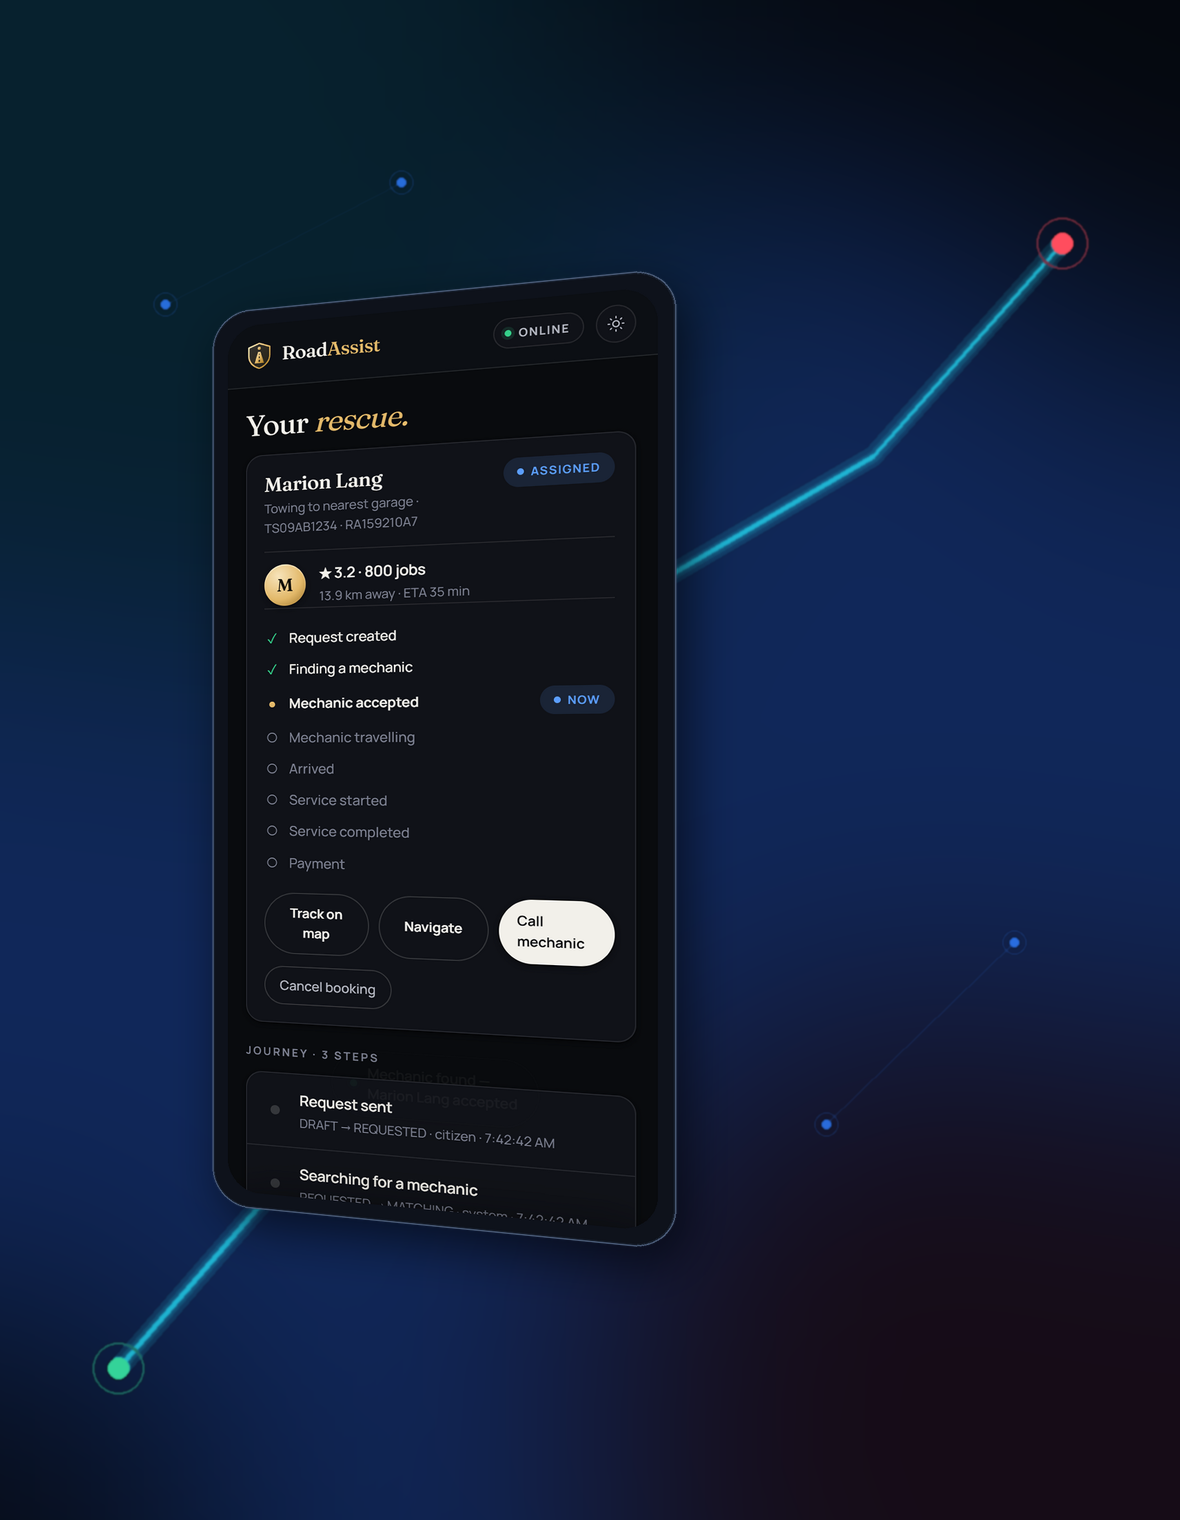
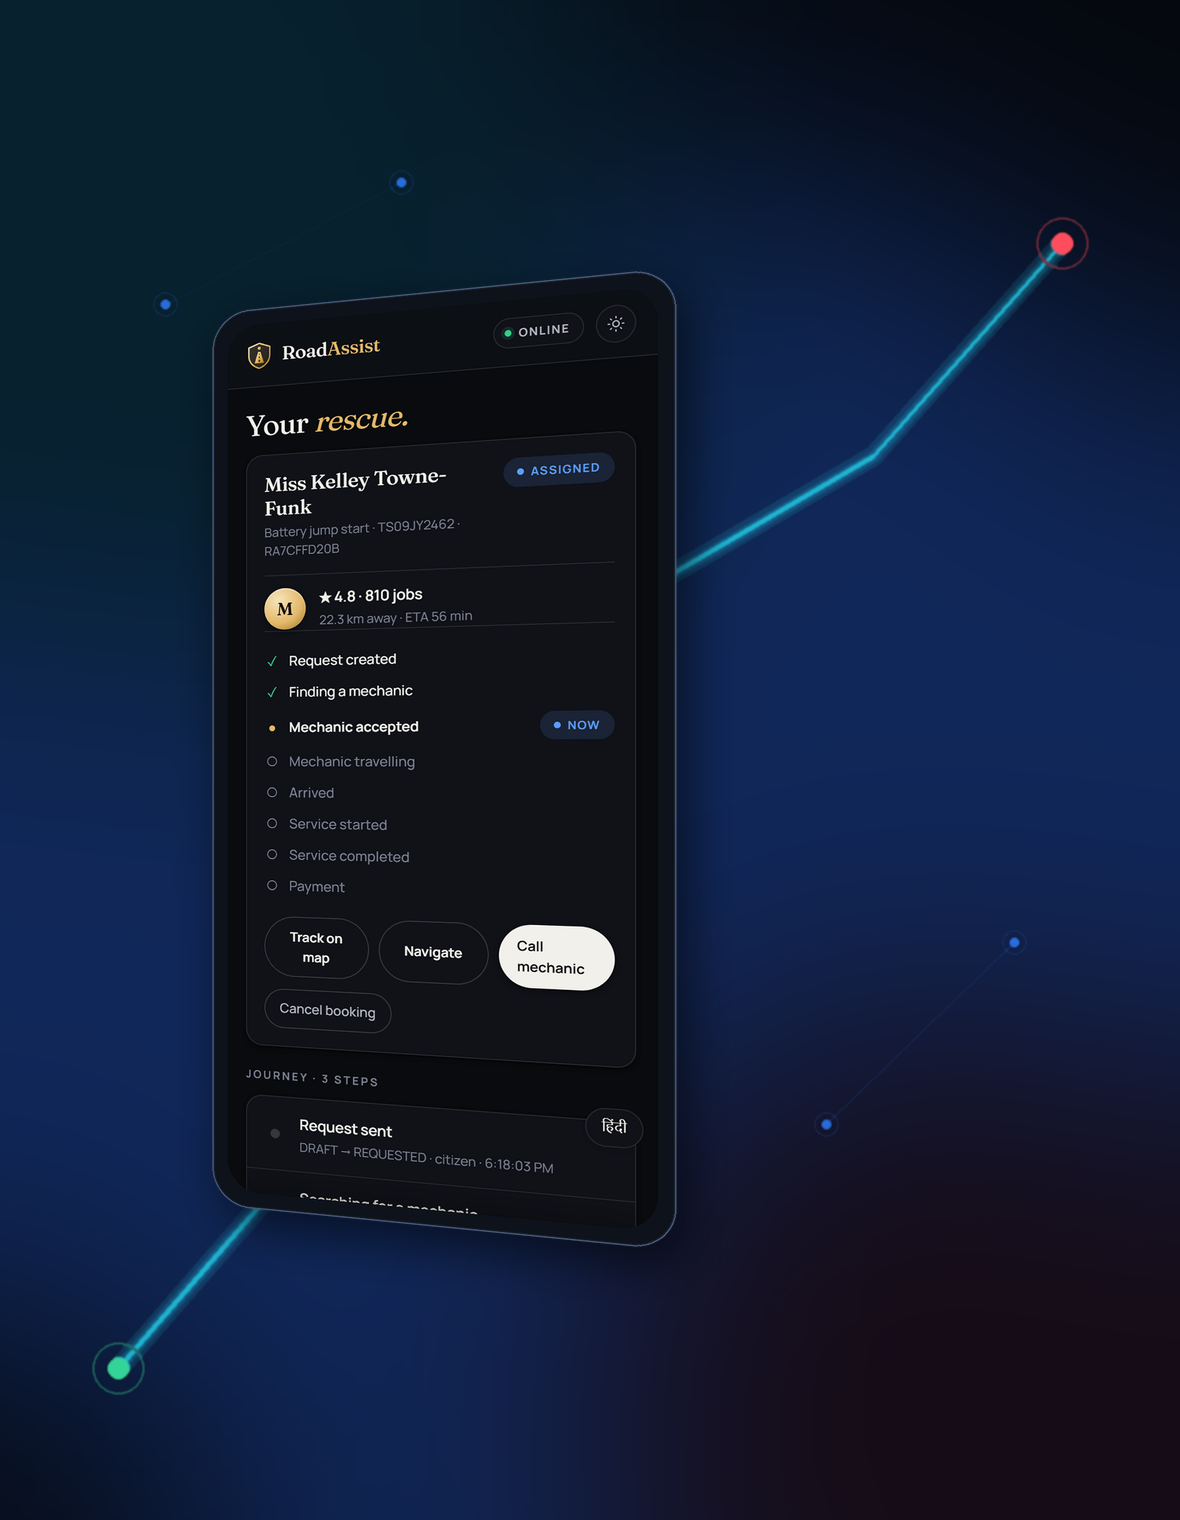
Fix the 3D product visuals, and put them on the showcase
The hero render was broken and had been for a while: it fed 13-mechanic-login,
a 2560x1720 DESKTOP capture, into a phone device frame. The frame stretched it
across the whole composition and it overlapped the phone behind it, text bleeding
through. The script exited 0 and wrote the file, so nothing said anything - it
just produced a picture nobody could use.

That was my substitution. When render_visuals.py was repointed from a dead
scratchpad path at the repository's own screenshots, the three filenames were
matched by NAME and not by SHAPE, and one of the three was a desktop capture.

Two fixes, because swapping the filename alone would let it happen again:
05-dispatch is portrait and is what the third slot uses now, and check_shots()
refuses any capture wider than 0.75 before rendering, naming the file and its
ratio. Proved by pointing it back at a landscape shot: it now exits 1 with
"14-authority.png is 1.49 wide-to-tall" instead of rendering nonsense.

The four visuals are regenerated and committed alongside the bg_*.png that were
already tracked, and three of them now open the GitHub Pages showcase: the hero,
the three-phone product strip, and the isometric infrastructure render - which
is drawn procedurally, so nothing photographic is claimed and no stock image
with unknown licensing enters the project.

The Pages workflow still refuses any third-party subresource and still fails if
a referenced asset is missing, both re-checked against the assembled output.

Changed region(s): [[0.2136, 0.3092, 0.4576, 0.8039], [0.3356, 0.5875, 0.5186, 0.6493], [0.4576, 0.4329, 0.5186, 0.4947]]

diff --git a/pages/index.html b/pages/index.html
@@ -79,6 +79,14 @@
   </p>
 </header>
 
+<figure style="margin:0 0 6px">
+  <img src="visuals/vis_hero.png" alt="The citizen app and mechanic console, set into device frames over a network graph"
+       style="width:100%;border:1px solid var(--rule);border-radius:10px;display:block" loading="eager">
+</figure>
+<p class="tagline" style="margin-top:8px">
+  Real screenshots of the running system, set into device frames — not mockups.
+</p>
+
 <div class="notice">
   <strong>What this page is.</strong> A showcase: screenshots and recordings of
   the running system, plus the measured numbers behind it. It is not the live
@@ -166,6 +174,11 @@
 </p>
 
 <h2 id="shots">The running system</h2>
+<figure style="margin:0 0 18px">
+  <img src="visuals/vis_products.png" alt="Three phone screens: home with SOS, live tracking, and mechanic dispatch"
+       style="width:100%;border:1px solid var(--rule);border-radius:10px;display:block" loading="lazy">
+  <figcaption>Home with the hold-to-escalate SOS · live tracking · dispatch with ranked offers</figcaption>
+</figure>
 <div class="shots">
   <figure><img src="shots/02-home.png" alt="Citizen home screen with SOS and emergency readiness" loading="lazy">
     <figcaption>Home — SOS, emergency readiness, quick actions</figcaption></figure>
@@ -192,6 +205,16 @@
   Your browser cannot play this video.
 </video>
 <p class="tagline">RAKSHA — real detections replayed through the ingest path.</p>
+
+<h2>Infrastructure, drawn rather than photographed</h2>
+<figure style="margin:0 0 6px">
+  <img src="visuals/vis_datacenter.png" alt="Isometric rendering of the deployment topology"
+       style="width:100%;border:1px solid var(--rule);border-radius:10px;display:block" loading="lazy">
+  <figcaption>
+    Rendered procedurally as geometry. Nothing photographic is claimed, and no
+    stock image with unknown licensing enters the project.
+  </figcaption>
+</figure>
 
 <h2 id="run">Run the real thing, one command</h2>
 <p>Nothing to install but Docker. This is the whole platform, not a mock:</p>

diff --git a/ppt/render_visuals.py b/ppt/render_visuals.py
@@ -177,7 +177,7 @@ def hero():
     bg.alpha_composite(phone, (px, py))
 
     # Secondary device, further back, showing the other side of the product.
-    mech = drop(tilt(device_frame(SHOTS / "13-mechanic-login.png", screen_w=520),
+    mech = drop(tilt(device_frame(SHOTS / "05-dispatch.png", screen_w=520),
                      lean=0.13), blur=26, alpha=120)
     mh = int(H * 0.64)
     mech = mech.resize((int(mech.width * mh / mech.height), mh), Image.LANCZOS)
@@ -297,7 +297,7 @@ def product_strip():
     W, H = 1900, 900
     bg = glow((W, H), [(W * 0.5, H * 0.5, W * 0.44, (18, 52, 122), 0.40)]).convert("RGBA")
     picks = [("02-home.png", 0.055, 0.86), ("06-tracking.png", 0.375, 0.96),
-             ("13-mechanic-login.png", 0.70, 0.86)]
+             ("05-dispatch.png", 0.70, 0.86)]
     for name, x_t, scale_t in picks:
         dev = drop(tilt(device_frame(SHOTS / name, screen_w=520), lean=0.12),
                    blur=26, alpha=130)
@@ -308,11 +308,34 @@ def product_strip():
     print("  vis_products.png")
 
 
-if __name__ == "__main__":
-    missing = [p for p in ("02-home.png", "06-tracking.png", "13-mechanic-login.png")
-               if not (SHOTS / p).exists()]
+# The product visuals set each screenshot into a PHONE frame, so a landscape
+# desktop capture cannot be used: device_frame stretches it across the frame and
+# the result overlaps whatever is behind it. That happened once, silently — the
+# render succeeded and produced a picture nobody could use — so the shape is
+# checked rather than assumed.
+PHONE_SHOTS = ("02-home.png", "06-tracking.png", "05-dispatch.png")
+MAX_PHONE_RATIO = 0.75
+
+
+def check_shots() -> None:
+    missing = [p for p in PHONE_SHOTS if not (SHOTS / p).exists()]
     if missing:
         raise SystemExit(f"Screenshots missing from {SHOTS}: {missing}")
+    wrong = []
+    for name in PHONE_SHOTS:
+        with Image.open(SHOTS / name) as im:
+            ratio = im.width / im.height
+        if ratio > MAX_PHONE_RATIO:
+            wrong.append(f"{name} is {ratio:.2f} wide-to-tall")
+    if wrong:
+        raise SystemExit(
+            "These go into a phone frame and are not phone-shaped: "
+            + "; ".join(wrong)
+            + f". Pick a portrait capture (ratio under {MAX_PHONE_RATIO}).")
+
+
+if __name__ == "__main__":
+    check_shots()
     print("rendering:")
     hero()
     datacenter()
